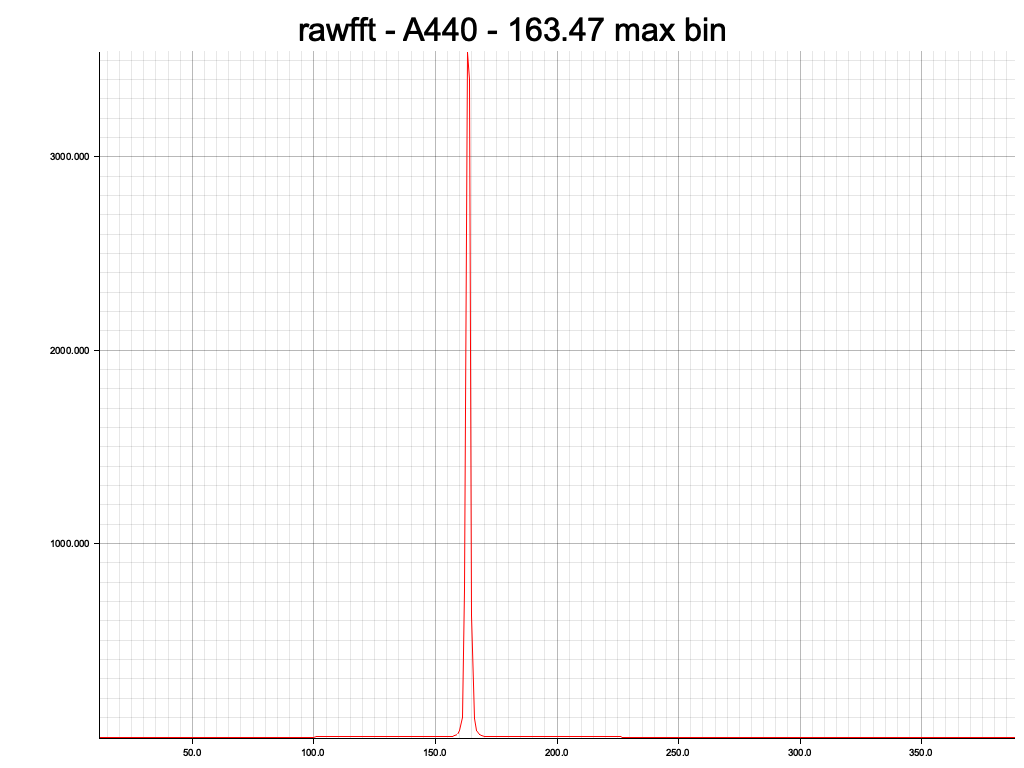
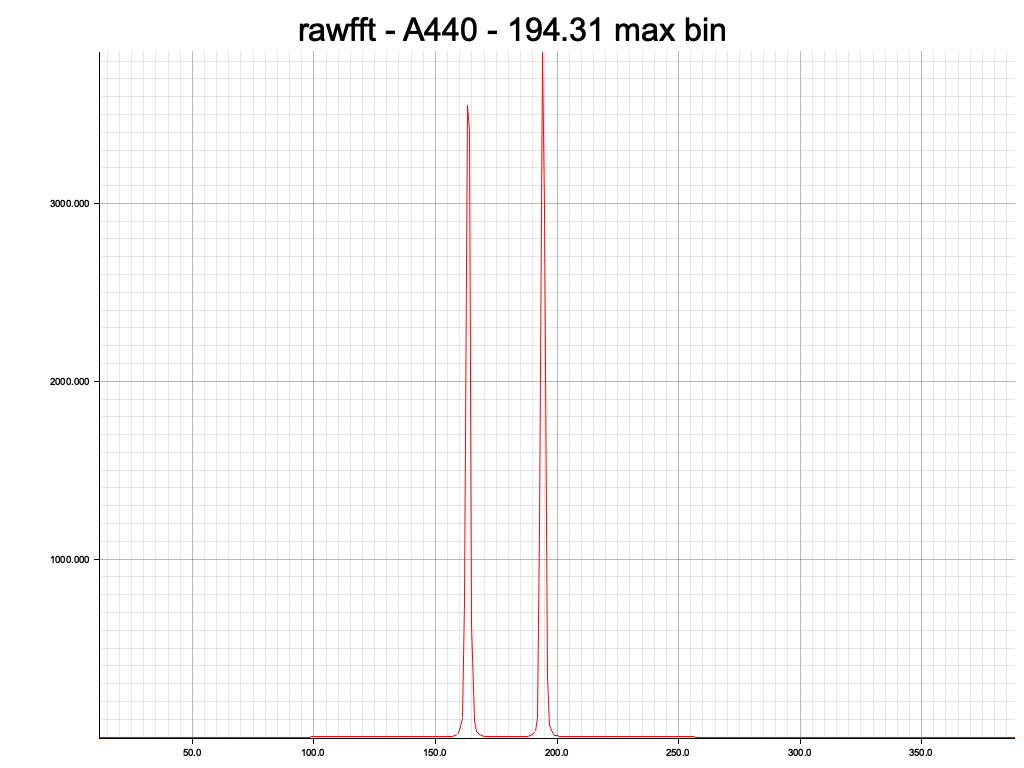
Added more documentation

Changed region(s): [[0.0312, 0.0, 0.9688, 0.9375], [0.0625, 0.6875, 0.0938, 0.75]]

diff --git a/src/lib.rs b/src/lib.rs
@@ -1,16 +1,96 @@
-//! Pitch Detector is a pitch detection library written in Rust.
+//! Pitch Detector is a pitch and note detection library written in Rust.
 //!
 //! ## Usage
-//! Pitch Detector can be used in three different modes. You can use it to detect a frequency (pitch) from a signal...
+//! Probably the most common use case is to detect the predominant frequency of a signal.
 //! ```rust
+//! use pitch_detector::{
+//!     pitch::{hanned_fft::HannedFftDetector, PitchDetector},
+//! };
+//! # fn example_detect_frequency() -> anyhow::Result<()> {
+//! # const NUM_SAMPLES: usize = 16384;
+//! # const SAMPLE_RATE: f64 = 44100.0;
+//! # const MAX_FREQ: f64 = 1046.50; // C6
+//! # const MIN_FREQ: f64 = 32.7; // C1
+//!
+//! let mut detector = HannedFftDetector::default();
+//! let signal: Vec<f64> = Vec::new(); // Signal to analyze
+//! let freq = detector
+//!     .detect_pitch(&signal, SAMPLE_RATE, Some(MIN_FREQ..MAX_FREQ))
+//!     .ok_or(anyhow::anyhow!("Did not get pitch"))?;
+//! # Ok(())
+//! # }
 //! ```
-//! or to detect the fundamental note being played in a signal, regardless of if it's out of tune...
+//! Another common use case is to detect the predominant note of a signal. The predominant frequency of the
+//! signal does not have to be strictly correspond to the exact frequency of the note. This use case is common
+//! for tuner applications, where the user would still want to know which note is being played, even if it's out
+//! of tune. The return type of `detect_note` includes the offset in cents from the in-tune frequency.
 //! ```rust
+//! use pitch_detector::{
+//!     core::{utils::sine_wave_signal, NoteName},
+//!     note::{detect_note},
+//!     pitch::{hanned_fft::HannedFftDetector, PitchDetector},
+//! };
+//! # fn example_detect_note() -> anyhow::Result<()> {
+//! # const NUM_SAMPLES: usize = 16384;
+//! # const SAMPLE_RATE: f64 = 44100.0;
+//! # const MAX_FREQ: f64 = 1046.50; // C6
+//! # const MIN_FREQ: f64 = 32.7; // C1
+//!
+//! let mut detector = HannedFftDetector::default();
+//! let slightly_sharp_a = 448.;
+//! let signal = sine_wave_signal(NUM_SAMPLES, slightly_sharp_a, SAMPLE_RATE);
+//! let note = detect_note(
+//!     &signal,
+//!     &mut detector,
+//!     SAMPLE_RATE,
+//!     Some(MIN_FREQ..MAX_FREQ),
+//! )
+//! .ok_or(anyhow::anyhow!("Did not get note"))?;
+//!
+//! assert_eq!(note.note_name, NoteName::A);
+//! assert!(note.cents_offset > 0.);
+//! #    Ok(())
+//! # }
 //! ```
-//! or to detect a fundamental note being played in a signal that contains multiple notes. This is achieved by providing a hint to the detector about which note is being played...
+
+//! The last use case is to detect a note with hint. So far, the previous use cases have been about detecting
+//! the predominant frequency or note. In this use case, we are providing the detector a hint so that it can
+//! detect a frequency that might not be the predominant note. This is useful when there are multiple frequencies
+//! in a signal (as there commonly are), but you want to know if the signal contains a specific note, and the
+//! degree to which this specific note is in tune or not.
 //! ```rust
+//! use pitch_detector::{
+//!     core::{utils::sine_wave_signal, NoteName},
+//!     note::{hinted::HintedNoteDetector},
+//!     pitch::{hanned_fft::HannedFftDetector, PitchDetector},
+//! };
+//! # fn example_hinted_note() -> anyhow::Result<()> {
+//! # const NUM_SAMPLES: usize = 16384;
+//! # const SAMPLE_RATE: f64 = 44100.0;
+//! # const MAX_FREQ: f64 = 1046.50; // C6
+//! # const MIN_FREQ: f64 = 32.7; // C1
+//!
+//! let mut detector = HannedFftDetector::default();
+//! let slightly_sharp_a = 448.;
+//! let in_tune_c = 523.25;
+//! let combined_signal: Vec<f64> = Vec::new();
+//! let note = detector
+//!     .detect_note_with_hint(
+//!         NoteName::A,
+//!         &combined_signal,
+//!         SAMPLE_RATE,
+//!         Some(MIN_FREQ..MAX_FREQ),
+//!     )
+//!     .ok_or(anyhow::anyhow!("Did not get note"))?;
+//!
+//! assert_eq!(note.note_name, NoteName::A);
+//! assert!(note.cents_offset > 0.);
+//! #    Ok(())
+//! # }
 //! ```
-//! Pitch Detector currently supports two different algorithms for pitch detection, but it can easily be expanded to support more algorithms. For more information on these algorithms, see the [pitch] module.
+//! Check out the `examples` directory for more.
+//! Pitch Detector currently supports two different algorithms for pitch detection, but it can easily be
+//! expanded to support more algorithms. For more information on these algorithms, see the [pitch] module.
 //!
 //!
 //!

diff --git a/src/pitch.rs b/src/pitch.rs
@@ -1,6 +1,8 @@
-//! The recommended algorithm is the [crate::pitch::hanned_fft::HannedFftDetector], which is the most versatile. [crate::pitch::cepstrum::PowerCepstrum] on the other hand, is less versatile,
-//! but it is able to detect a fundamental from a sample that includes many harmonics. This means that [crate::pitch::cepstrum::PowerCepstrum] is good for detecting
-//! sounds that are rich in harmonics, as well as low pitched sounds, but bad at detecting samples with fewer partials.
+//! The recommended algorithm is the [HannedFftDetector](crate::pitch::hanned_fft::HannedFftDetector),
+//! which is the most versatile. [PowerCepstrum](crate::pitch::cepstrum::PowerCepstrum) on the other hand, is less versatile,
+//! but it is able to detect a fundamental from a sample that includes many harmonics. This means that [PowerCepstrum](crate::pitch::cepstrum::PowerCepstrum)
+//! is good for detecting sounds that are rich in harmonics, as well as low pitched sounds, but bad at detecting samples
+//! with fewer partials.
 //!
 pub mod cepstrum;
 pub mod core;

diff --git a/src/note/hinted.rs b/src/note/hinted.rs
@@ -20,7 +20,7 @@ pub trait HintedNoteDetector: SignalToSpectrum {
     ) -> Option<NoteDetectionResult> {
         let (start_bin, spectrum) =
             self.signal_to_spectrum(signal, freq_range_hint.map(|r| (r, sample_rate)));
-        const LAG: usize = 40;
+        const LAG: usize = 20;
         const THRESHOLD: f64 = 6.;
         const INFLUENCE: f64 = 0.;
         let peak_detector = ZScoreDetector::new(LAG, THRESHOLD, INFLUENCE);
@@ -91,10 +91,10 @@ mod tests {
         Ok(())
     }
 
-    // #[test]
-    // fn test_with_mixed_wave_signal() -> anyhow::Result<()> {
-    //     let mut detector = HannedFftDetector::default();
-    //     assert_hinted_detector_sine_waves(&mut detector, NoteName::A, vec![440., 523.25])?;
-    //     Ok(())
-    // }
+    #[test]
+    fn test_with_mixed_wave_signal() -> anyhow::Result<()> {
+        let mut detector = HannedFftDetector::default();
+        assert_hinted_detector_sine_waves(&mut detector, NoteName::A, vec![440., 523.25])?;
+        Ok(())
+    }
 }

diff --git a/examples/spectrum_plot.rs b/examples/spectrum_plot.rs
@@ -106,7 +106,7 @@ fn plot_detector_for_freqs<D: PitchDetector + SignalToSpectrum>(
         &test_signal,
         MIN_FREQ..MAX_FREQ,
         TEST_FILE_SAMPLE_RATE,
-        "A440",
+        "sine wave",
     )
 }
 fn main() -> anyhow::Result<()> {
@@ -119,12 +119,10 @@ fn main() -> anyhow::Result<()> {
         // "noise.json",
     ];
 
-    // plot_detector_for_files(AutocorrelationDetector, &test_files)?;
     plot_detector_for_files(PowerCepstrum::default(), &test_files)?;
     plot_detector_for_files(HannedFftDetector::default(), &test_files)?;
 
-    // plot_detector_for_freq(AutocorrelationDetector, 440.)?;
-    // plot_detector_for_freq(PowerCepstrum, 440.)?;
     plot_detector_for_freqs(HannedFftDetector::default(), vec![440.])?;
+    plot_detector_for_freqs(HannedFftDetector::default(), vec![440., 523.])?;
     Ok(())
 }

diff --git a/src/pitch/cepstrum.rs b/src/pitch/cepstrum.rs
@@ -5,6 +5,7 @@ use rustfft::{num_complex::Complex, FftPlanner};
 
 use super::{PitchDetector, SignalToSpectrum};
 
+#[derive(Debug, Clone)]
 pub struct PowerCepstrum {
     fft_space: Option<FftSpace>,
 }

diff --git a/README.md b/README.md
@@ -7,42 +7,54 @@
 A pitch and note detector library written in Rust.
 
 ## Usage
+Probably the most common use case is to detect the predominant frequency of a signal. 
 ```rust
 use pitch_detector::{
-    core::{NoteName},
-    note::{detect_note},
     pitch::{hanned_fft::HannedFftDetector, PitchDetector},
 };
-use float_cmp::ApproxEq; // Used only to compare floats
-...
 
-const NUM_SAMPLES: usize = 16384;
-const SAMPLE_RATE: f64 = 44100.;
-const FREQ: f64 = 440.;
-const MAX_FREQ: f64 = 1046.50; // C6
-const MIN_FREQ: f64 = 32.7; // C1
-
-// Create the signal. 
-let signal = (0..NUM_SAMPLES)
-        .map(|r| (2. * std::f64::consts::PI * r as f64 * FREQ / SAMPLE_RATE).sin());
+let sample_rate = 44100.
+let signal: Vec<f64> = ...;
 
 let mut detector = HannedFftDetector::default();
+let freq = detector.detect_pitch(&signal, sample_rate, None)?;
+```
+Another common use case is to detect the predominant note of a signal. The predominant frequency of the signal does not have to be strictly correspond to the exact frequency of the note. This use case is common for tuner applications, where the user would still want to know which note is being played, even if it's out of tune. The return type of `detect_note` includes the offset in cents from the in-tune frequency.
+```rust
+use pitch_detector::{
+    pitch::{hanned_fft::HannedFftDetector, PitchDetector},
+    note::{detect_note},
+};
 
-// Detect predominant frequency of signal
-let freq = detector
-    .detect_pitch(&signal, SAMPLE_RATE, Some(MIN_FREQ..MAX_FREQ))?
-assert!(freq.approx_eq(FREQ, (0.02, 2)),);
+let sample_rate = 44100.
+let signal: Vec<f64> = ...;
 
-// Detect predominant note of signal
+let mut detector = HannedFftDetector::default();
 let note = detect_note(
         &signal,
         &mut detector,
-        SAMPLE_RATE,
-        Some(MIN_FREQ..MAX_FREQ),
+        sample_rate,
+        None,
     )?;
-assert_eq!(note.note_name, NoteName::A); 
-
 ```
+
+The last use case is to detect a note with hint. So far, the previous use cases have been about detecting the predominant frequency or note. In this use case, we are providing the detector a hint so that it can detect a frequency that might not be the predominant note. This is useful when there are multiple frequencies in a signal (as there commonly are), but you want to know if the signal contains a specific note, and the degree to which this specific note is in tune or not.
+```rust
+let sample_rate = 44100.
+let mixed_signal: Vec<f64> = ... // mixed_signal contains multiple overlapping frequencies
+
+let note = detector
+        .detect_note_with_hint(
+            NoteName::A,
+            &mixed_signal,
+            sample_rate,
+            None,
+        )
+        .ok_or(anyhow::anyhow!("Did not detect hinted note in signal"))?;
+assert_eq!(note.note_name, NoteName::A);
+assert!(note.cents_offset > 0.);
+```
+Check out the `examples` directory for more.
 
 ## License
 Licensed under the [MIT license](https://github.com/mherrerarendon/pitch-detector/blob/main/LICENSE-MIT)
